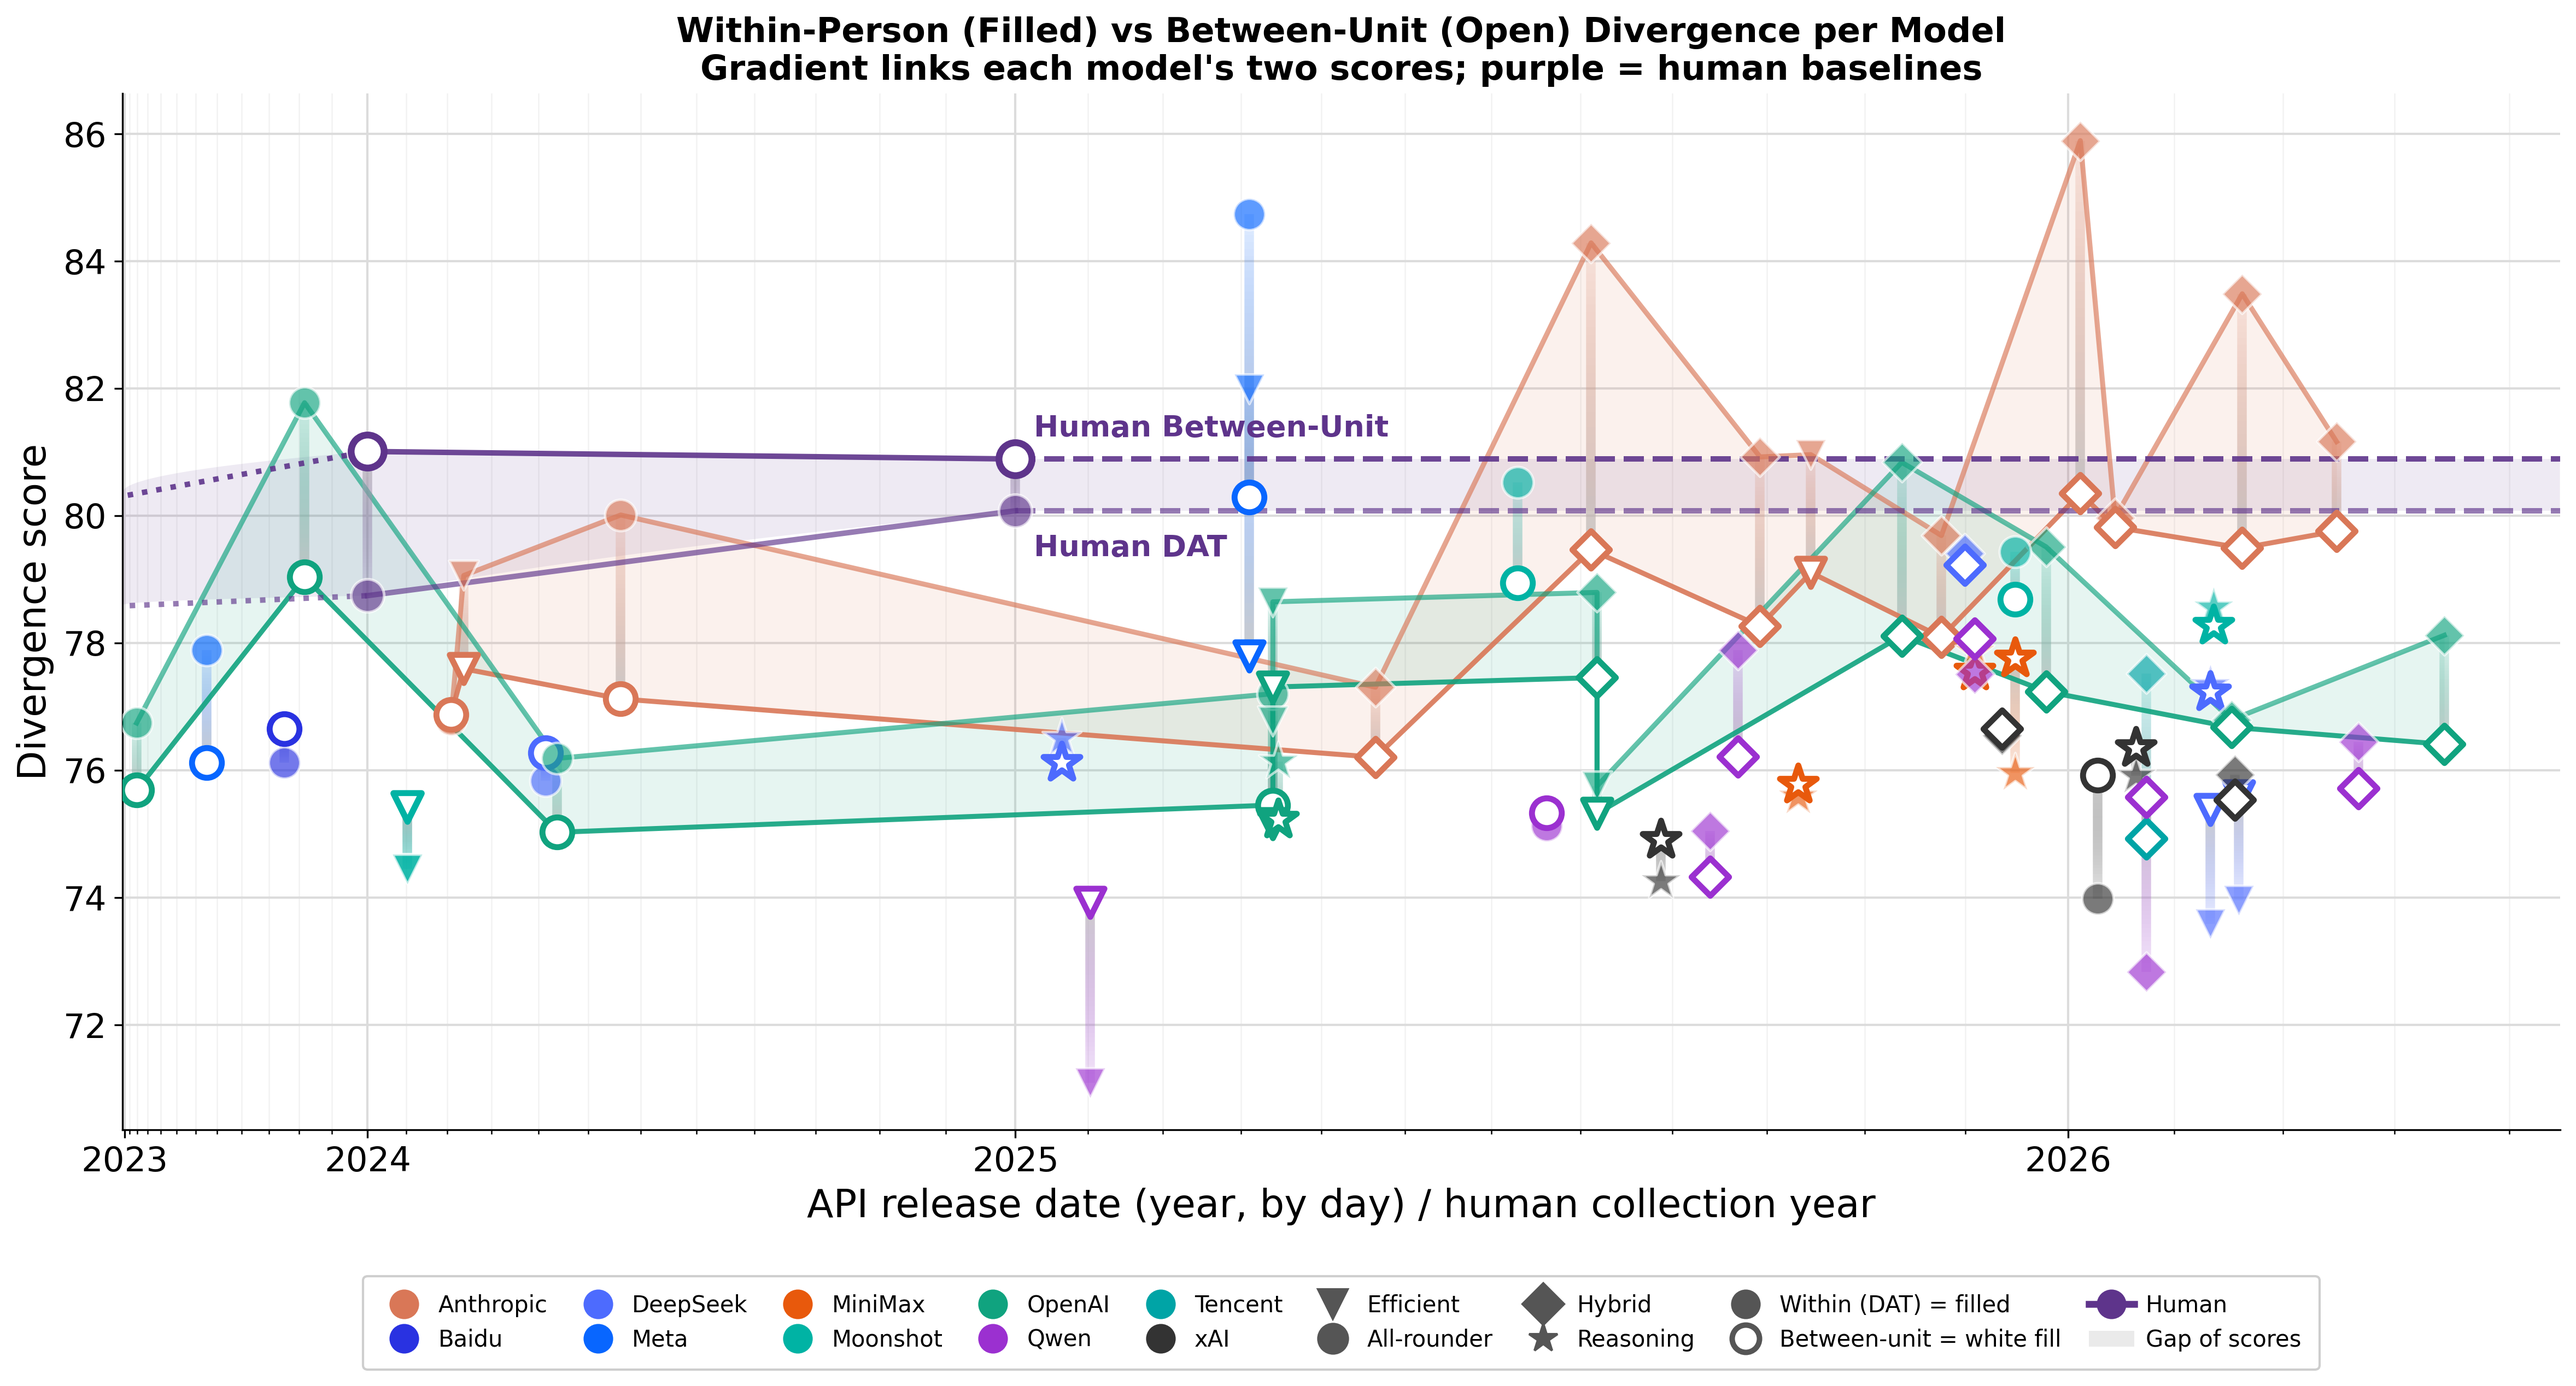
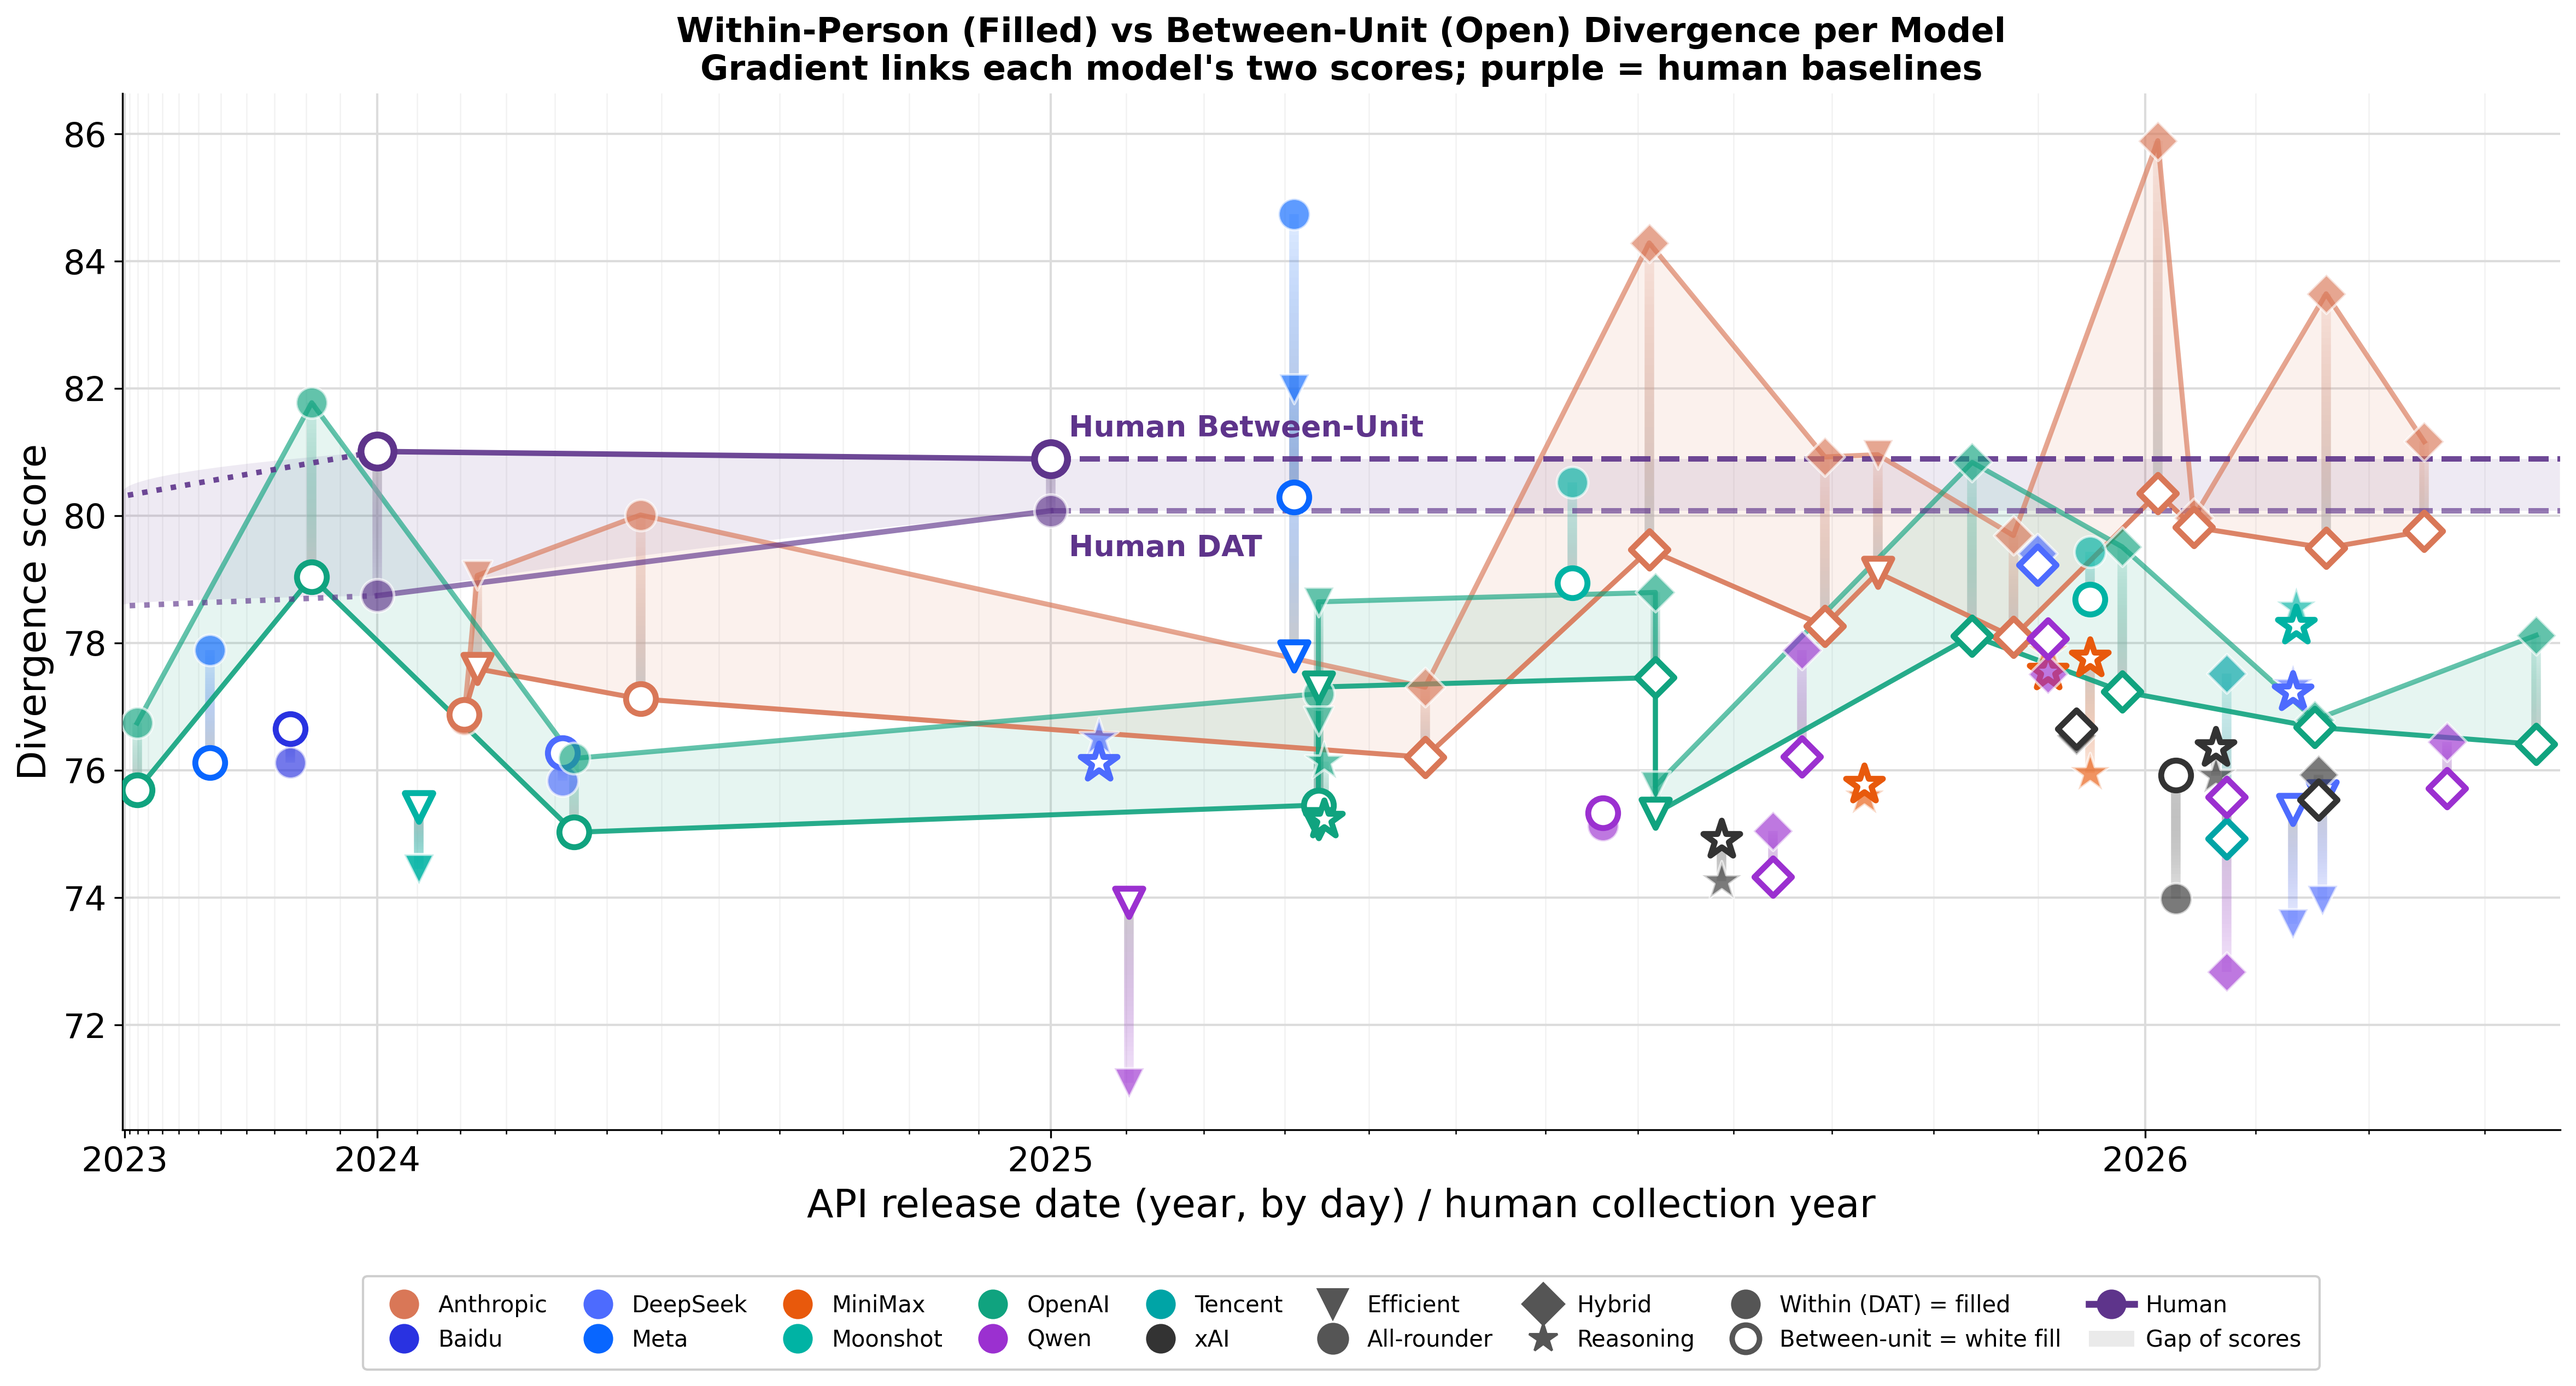
Overlay: x-max = 0.2 months after latest model

diff --git a/analysis/within_vs_between_overlay_plot.py b/analysis/within_vs_between_overlay_plot.py
@@ -24,7 +24,7 @@ def load(fn):
 dat,dat_hy=load("permonth_data.json")
 btw,btw_hy=load("between_data.json")
 models=[m for m in dat if m in btw]
-allx=[dat[m][0] for m in models]; xmin=min(allx)-3/12; xmax=max(allx)+1/12
+allx=[dat[m][0] for m in models]; xmin=min(allx)-3/12; xmax=max(allx)+0.2/12
 
 def grad_segments(x,y0,y1,c0,c1,n=40,a0=0.12,a1=0.75):
     # y0 = DAT end (alpha a0=0.70, matches 30%-transparent DAT circle); y1 = between end (alpha a1, faded)
